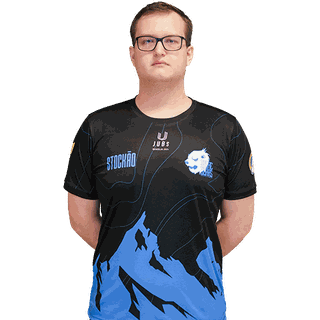
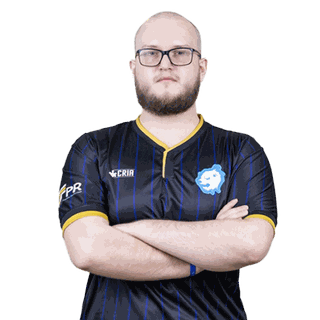
Lineups CEUB, fotos novas e redesign do hero das equipes
- CEUB Octopus: lineup atual chadu, gbzz, kzr, reyblock, seki (jotave removido)
- CEUB Octopus Vulgaris: Japinha99, Pockaus, Dante, bada, tanizaki + noway de 6º (atazin removido)
- Fotos novas: CEUB Octopus (5), Octopus Vulgaris (5), Azure Bears (skydvjj, Omega, Aldeath, stockao substituída), Axis Anteaters (4) e oBigZe (UFU Saints), otimizadas para ~320px
- Aliases de foto no build_metadata.py: gbzz->gbz.png, Japinha99->JEYP.png
- Banner da equipe agora só mostra jogadores atuais; com mais de 5, entram os de mais partidas (foto como desempate)
- Ex-membros passa a listar jogadores removidos da lineup registrada mesmo sem time novo (jotave, atazin, suvas, Lillos, konnZ)
- Hero das equipes redesenhado: gradiente com as cores do time cobrindo todo o banner, recortes dos jogadores fundidos ao fundo (máscara de fade + glow de palco) no lugar da faixa preta, nomes em caps com glow
- metadata.json e database.json regenerados

diff --git a/styles.css b/styles.css
@@ -14822,9 +14822,11 @@ img.search-state-flag + .search-state-flag.placeholder {
   border: 1px solid rgba(245, 241, 242, 0.1);
   border-radius: 8px;
   background:
-    radial-gradient(ellipse at 18% 45%, color-mix(in srgb, var(--team-accent, #d8323c) 72%, #050507) 0%, color-mix(in srgb, var(--team-accent, #d8323c) 38%, #050507) 38%, transparent 70%),
-    radial-gradient(ellipse at 66% 48%, color-mix(in srgb, var(--team-accent-2, #009a96) 42%, #050507) 0%, transparent 58%),
-    linear-gradient(90deg, color-mix(in srgb, var(--team-accent, #d8323c) 46%, #050507) 0%, color-mix(in srgb, var(--team-accent, #d8323c) 28%, #050507) 30%, color-mix(in srgb, var(--team-accent-2, #009a96) 22%, #050507) 62%, #050507 100%);
+    linear-gradient(180deg, transparent 72%, rgba(4, 3, 6, 0.42) 100%),
+    radial-gradient(ellipse at 16% 42%, color-mix(in srgb, var(--team-accent, #d8323c) 78%, #07070c) 0%, color-mix(in srgb, var(--team-accent, #d8323c) 42%, #07070c) 40%, transparent 72%),
+    radial-gradient(ellipse at 68% 22%, color-mix(in srgb, var(--team-accent-2, #009a96) 46%, transparent) 0%, transparent 60%),
+    radial-gradient(ellipse at 94% 92%, color-mix(in srgb, var(--team-accent, #d8323c) 32%, transparent) 0%, transparent 54%),
+    linear-gradient(90deg, color-mix(in srgb, var(--team-accent, #d8323c) 52%, #07070c) 0%, color-mix(in srgb, var(--team-accent, #d8323c) 34%, #07070c) 34%, color-mix(in srgb, var(--team-accent-2, #009a96) 32%, #07070c) 70%, color-mix(in srgb, var(--team-accent-2, #009a96) 22%, #07070c) 100%);
   color: var(--univlr-white, #f5f1f2);
   box-shadow:
     inset 0 1px 0 rgba(245, 241, 242, 0.08),
@@ -14842,7 +14844,7 @@ img.search-state-flag + .search-state-flag.placeholder {
     linear-gradient(rgba(245, 241, 242, 0.34) 1px, transparent 1px),
     linear-gradient(90deg, rgba(245, 241, 242, 0.34) 1px, transparent 1px);
   background-size: 46px 46px;
-  mask-image: linear-gradient(90deg, #000, transparent 82%);
+  mask-image: linear-gradient(90deg, #000, rgba(0, 0, 0, 0.35) 58%, transparent 96%);
   pointer-events: none;
 }
 
@@ -14953,11 +14955,11 @@ img.search-state-flag + .search-state-flag.placeholder {
 .team-page .team-hero-cover::before {
   content: "";
   position: absolute;
-  inset: 22px -42px 0;
+  inset: 10px -34px 0;
   z-index: 0;
   background:
-    radial-gradient(ellipse at 50% 92%, rgba(245, 241, 242, 0.1), transparent 46%),
-    linear-gradient(90deg, transparent, rgba(4, 3, 6, 0.28) 20%, rgba(4, 3, 6, 0.24) 80%, transparent);
+    radial-gradient(ellipse at 50% 100%, color-mix(in srgb, var(--team-accent, #d8323c) 36%, transparent), transparent 58%),
+    radial-gradient(ellipse at 50% 98%, rgba(245, 241, 242, 0.12), transparent 42%);
   pointer-events: none;
 }
 
@@ -14978,9 +14980,11 @@ img.search-state-flag + .search-state-flag.placeholder {
 .team-page .team-hero-cover-player::after {
   content: "";
   position: absolute;
-  inset: auto 0 0;
-  height: 54px;
-  background: linear-gradient(180deg, transparent, rgba(4, 3, 6, 0.88));
+  inset: auto 12% 2px;
+  height: 12px;
+  border-radius: 50%;
+  background: radial-gradient(ellipse at 50% 50%, rgba(4, 3, 6, 0.5), transparent 72%);
+  filter: blur(3px);
   pointer-events: none;
 }
 
@@ -15003,24 +15007,38 @@ img.search-state-flag + .search-state-flag.placeholder {
   object-position: bottom center;
   padding: 0;
   background: transparent;
-  filter: brightness(1.08) contrast(1.04) drop-shadow(0 14px 22px rgba(0, 0, 0, 0.48));
+  filter:
+    brightness(1.06) contrast(1.05) saturate(1.05)
+    drop-shadow(0 16px 24px rgba(0, 0, 0, 0.45))
+    drop-shadow(0 0 24px color-mix(in srgb, var(--team-accent, #d8323c) 28%, transparent));
   transform: scale(1.1);
   transform-origin: bottom center;
+  mask-image: linear-gradient(180deg, #000 82%, rgba(0, 0, 0, 0.4) 94%, transparent 100%);
+  -webkit-mask-image: linear-gradient(180deg, #000 82%, rgba(0, 0, 0, 0.4) 94%, transparent 100%);
+  transition: transform 0.25s ease;
+}
+
+.team-page a.team-hero-cover-player:hover img {
+  transform: scale(1.15);
 }
 
 .team-page .team-hero-cover-player > span:last-child {
   position: absolute;
   left: 0;
   right: 0;
-  bottom: 4px;
+  bottom: 6px;
   z-index: 2;
   overflow: hidden;
   color: var(--univlr-white, #f5f1f2);
-  font-size: 0.78rem;
+  font-size: 0.73rem;
   font-weight: 950;
+  letter-spacing: 0.05em;
   text-align: center;
   text-overflow: ellipsis;
-  text-shadow: 0 2px 8px rgba(0, 0, 0, 0.75);
+  text-shadow:
+    0 2px 10px rgba(4, 3, 6, 0.92),
+    0 0 18px color-mix(in srgb, var(--team-accent, #d8323c) 60%, transparent);
+  text-transform: uppercase;
   white-space: nowrap;
 }
 

diff --git a/app.js b/app.js
@@ -9435,13 +9435,23 @@ function teamRankHero(team) {
 function teamHeroCover(team, currentLineup, observedPlayers = []) {
   const lineupPlayers = currentLineup.map((entry) => ({ entry, player: entry.playerId ? playerById(entry.playerId) : null }));
   const fallbackPlayers = observedPlayers.filter((player) => !lineupPlayers.some((row) => row.player?.id === player.id)).map((player) => ({ entry: { playerId: player.id, name: player.nick }, player }));
-  const rows = [...lineupPlayers, ...fallbackPlayers].slice(0, 5);
+  const rows = lineupPlayers.length ? teamHeroCoverSelection(lineupPlayers) : fallbackPlayers.slice(0, 5);
   if (!rows.length) return "";
   return `
     <div class="team-hero-cover" aria-label="${escapeHtml(`Elenco ${team.name}`)}">
       ${rows.map(teamHeroCoverPlayer).join("")}
     </div>
   `;
+}
+
+function teamHeroCoverSelection(lineupPlayers) {
+  if (lineupPlayers.length <= 5) return lineupPlayers;
+  const chosen = new Set(
+    [...lineupPlayers]
+      .sort((a, b) => Number(b.player?.matches || 0) - Number(a.player?.matches || 0) || Number(Boolean(b.player?.photo)) - Number(Boolean(a.player?.photo)))
+      .slice(0, 5),
+  );
+  return lineupPlayers.filter((row) => chosen.has(row));
 }
 
 function teamHeroCoverPlayer({ entry, player }) {
@@ -10109,8 +10119,16 @@ function bestRank(history) {
 }
 
 function teamHistoricalPlayers(team) {
+  const registeredLineup = team.currentLineup || [];
+  const lineupIds = new Set(registeredLineup.map((entry) => entry.playerId).filter(Boolean));
+  const lineupNameKeys = new Set(registeredLineup.map((entry) => normalizeNameKey(entry.name)).filter(Boolean));
   return state.db.players
-    .filter((player) => (player.teamHistory || []).includes(team.id) && player.teamId !== team.id)
+    .filter((player) => {
+      if (!(player.teamHistory || []).includes(team.id)) return false;
+      if (!registeredLineup.length) return player.teamId !== team.id;
+      if (lineupIds.has(player.id) || playerLookupKeys(player).some((key) => lineupNameKeys.has(key))) return false;
+      return player.currentTeam !== team.id;
+    })
     .sort((a, b) => a.nick.localeCompare(b.nick));
 }
 

diff --git a/scripts/build_metadata.py b/scripts/build_metadata.py
@@ -20,6 +20,8 @@ KNOWN_BAD_TEAM_LOGOS = {
 PHOTO_ALIASES = {
     "fillip1n": ["filip1n"],
     "pagode": ["pagod"],
+    "gbzz": ["gbz"],
+    "japinha99": ["jeyp"],
 }
 
 